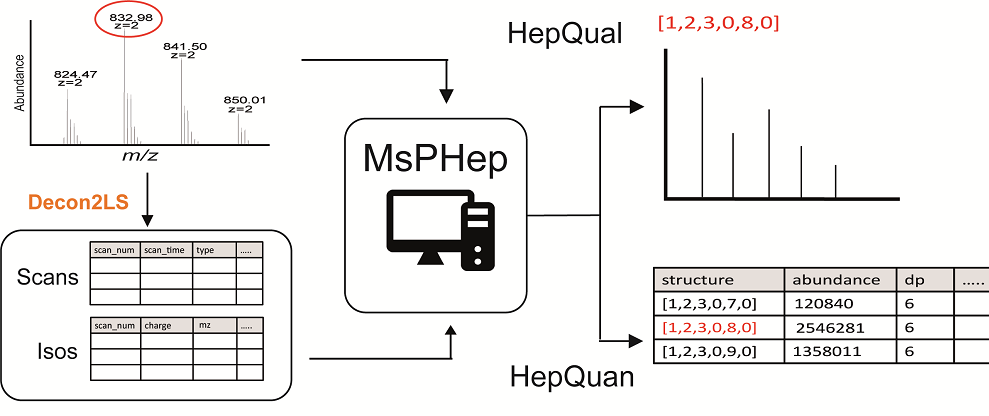
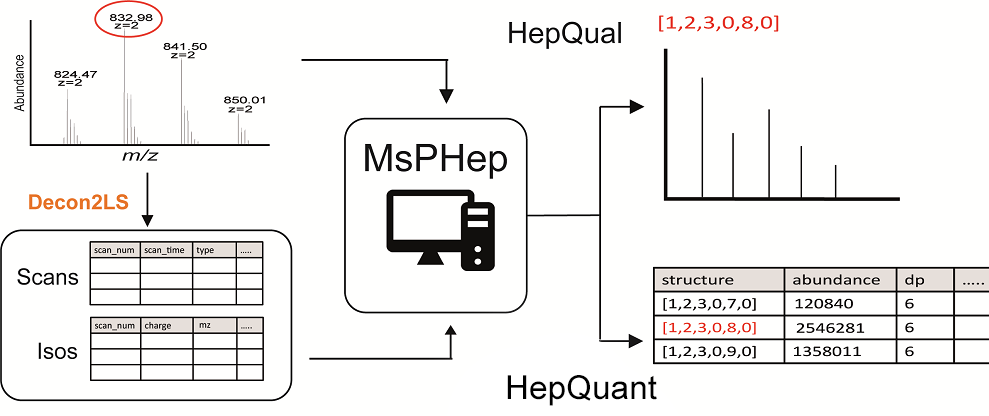
Main

Changed region(s): [[0.5157, 0.875, 0.6673, 0.9688]]

diff --git a/mds/HepQual.md b/mds/HepQual.md
@@ -1,4 +1,4 @@
-**MS find** section provieds a friendly way to interactively search the corresponding structure of  low-molecular-weight heparin (LMWH) or heparin/heparan sulfate oligosaccharides by  provided of LC-MS m/z and charge.
+**HepQual** section provieds a friendly way to interactively search the corresponding structure of  low-molecular-weight heparin (LMWH) or heparin/heparan sulfate oligosaccharides by  provided of LC-MS m/z and charge.
 
 
 **Step1**: Select the corresponding LMWH or heparin database. Different types of LMWHs share the same building blocks while the end structures (reducing end and nonreducing end) and degree of polymerization are variable due to different preparation methods. Thus, database selection is crucial for obtaining accurate output.

diff --git a/mds/HepQuan.md b/mds/HepQuan.md
@@ -1,4 +1,4 @@
-**MS find** section provieds a friendly way to interactively search the corresponding structure of  low-molecular-weight heparin (LMWH) or heparin/heparan sulfate oligosaccharides by  provided of LC-MS m/z and charge.
+**HepQuant** section provieds a friendly way to interactively search the corresponding structure of  low-molecular-weight heparin (LMWH) or heparin/heparan sulfate oligosaccharides by  provided of LC-MS m/z and charge.
 
 
 **Step1**: Deconvolution by DeconTools. The parameter setting XML file can be download at [here](https://raw.githubusercontent.com/XieShaoshuai/MsPHep/main/Example%20data/HeparinParameterFile.xml)

diff --git a/mds/welcome.md b/mds/welcome.md
@@ -7,7 +7,7 @@ In particluar, <b><span style="color:#F17F42">MsPHep</span></b>  include functio
 
 (1) <b>HepQual:</b> assign structure and isotopic profile from mass to charge (m/z) and charge
 
-(2) <b>HepQuan:</b> extract LMWHs or heparin compositions and abundances automaticallywithout prior knowledge or any database generation.
+(2) <b>HepQuant:</b> extract LMWHs or heparin compositions and abundances automaticallywithout prior knowledge or any database generation.
 
 ---
 
